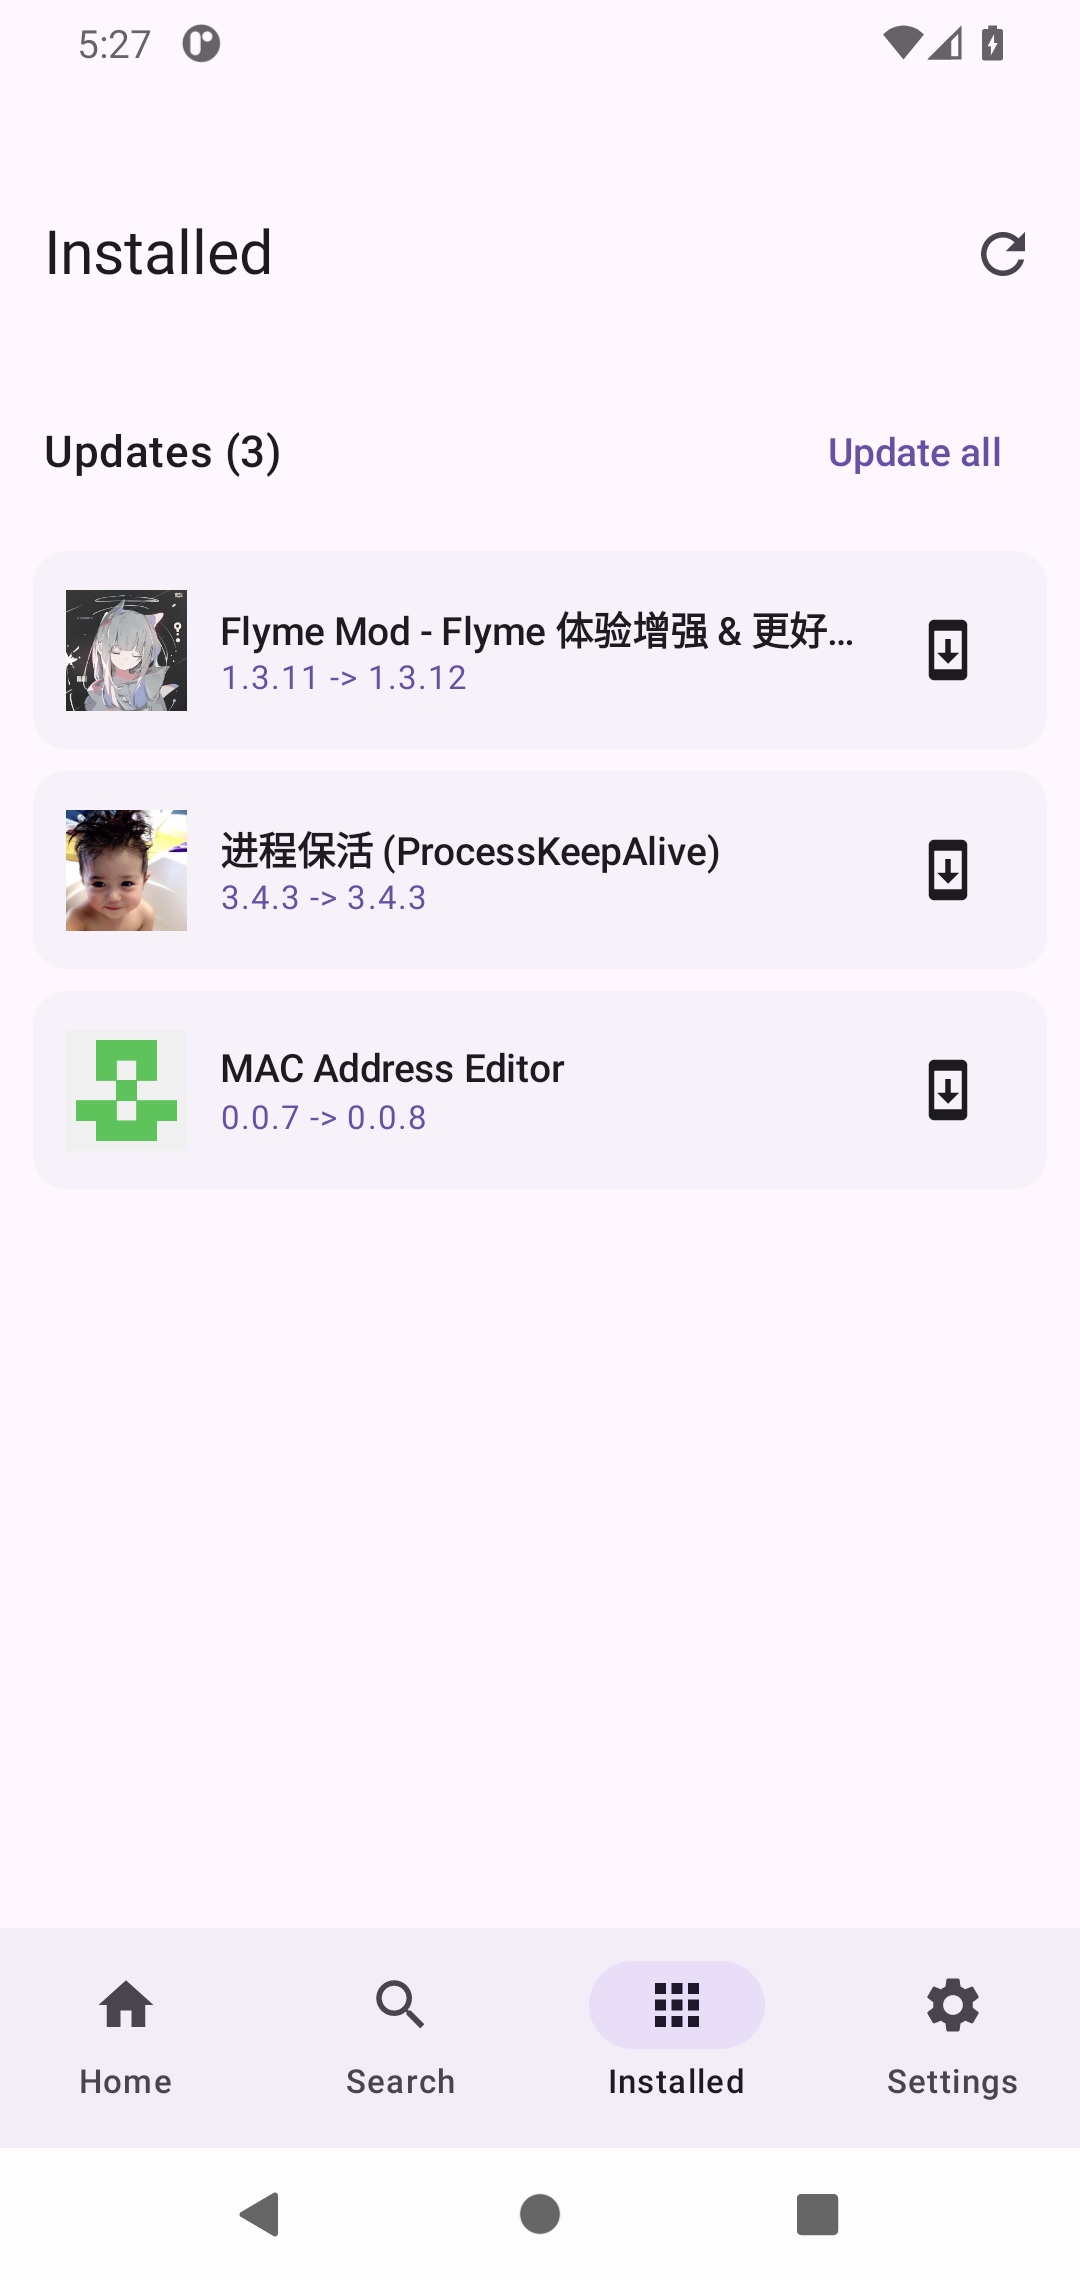
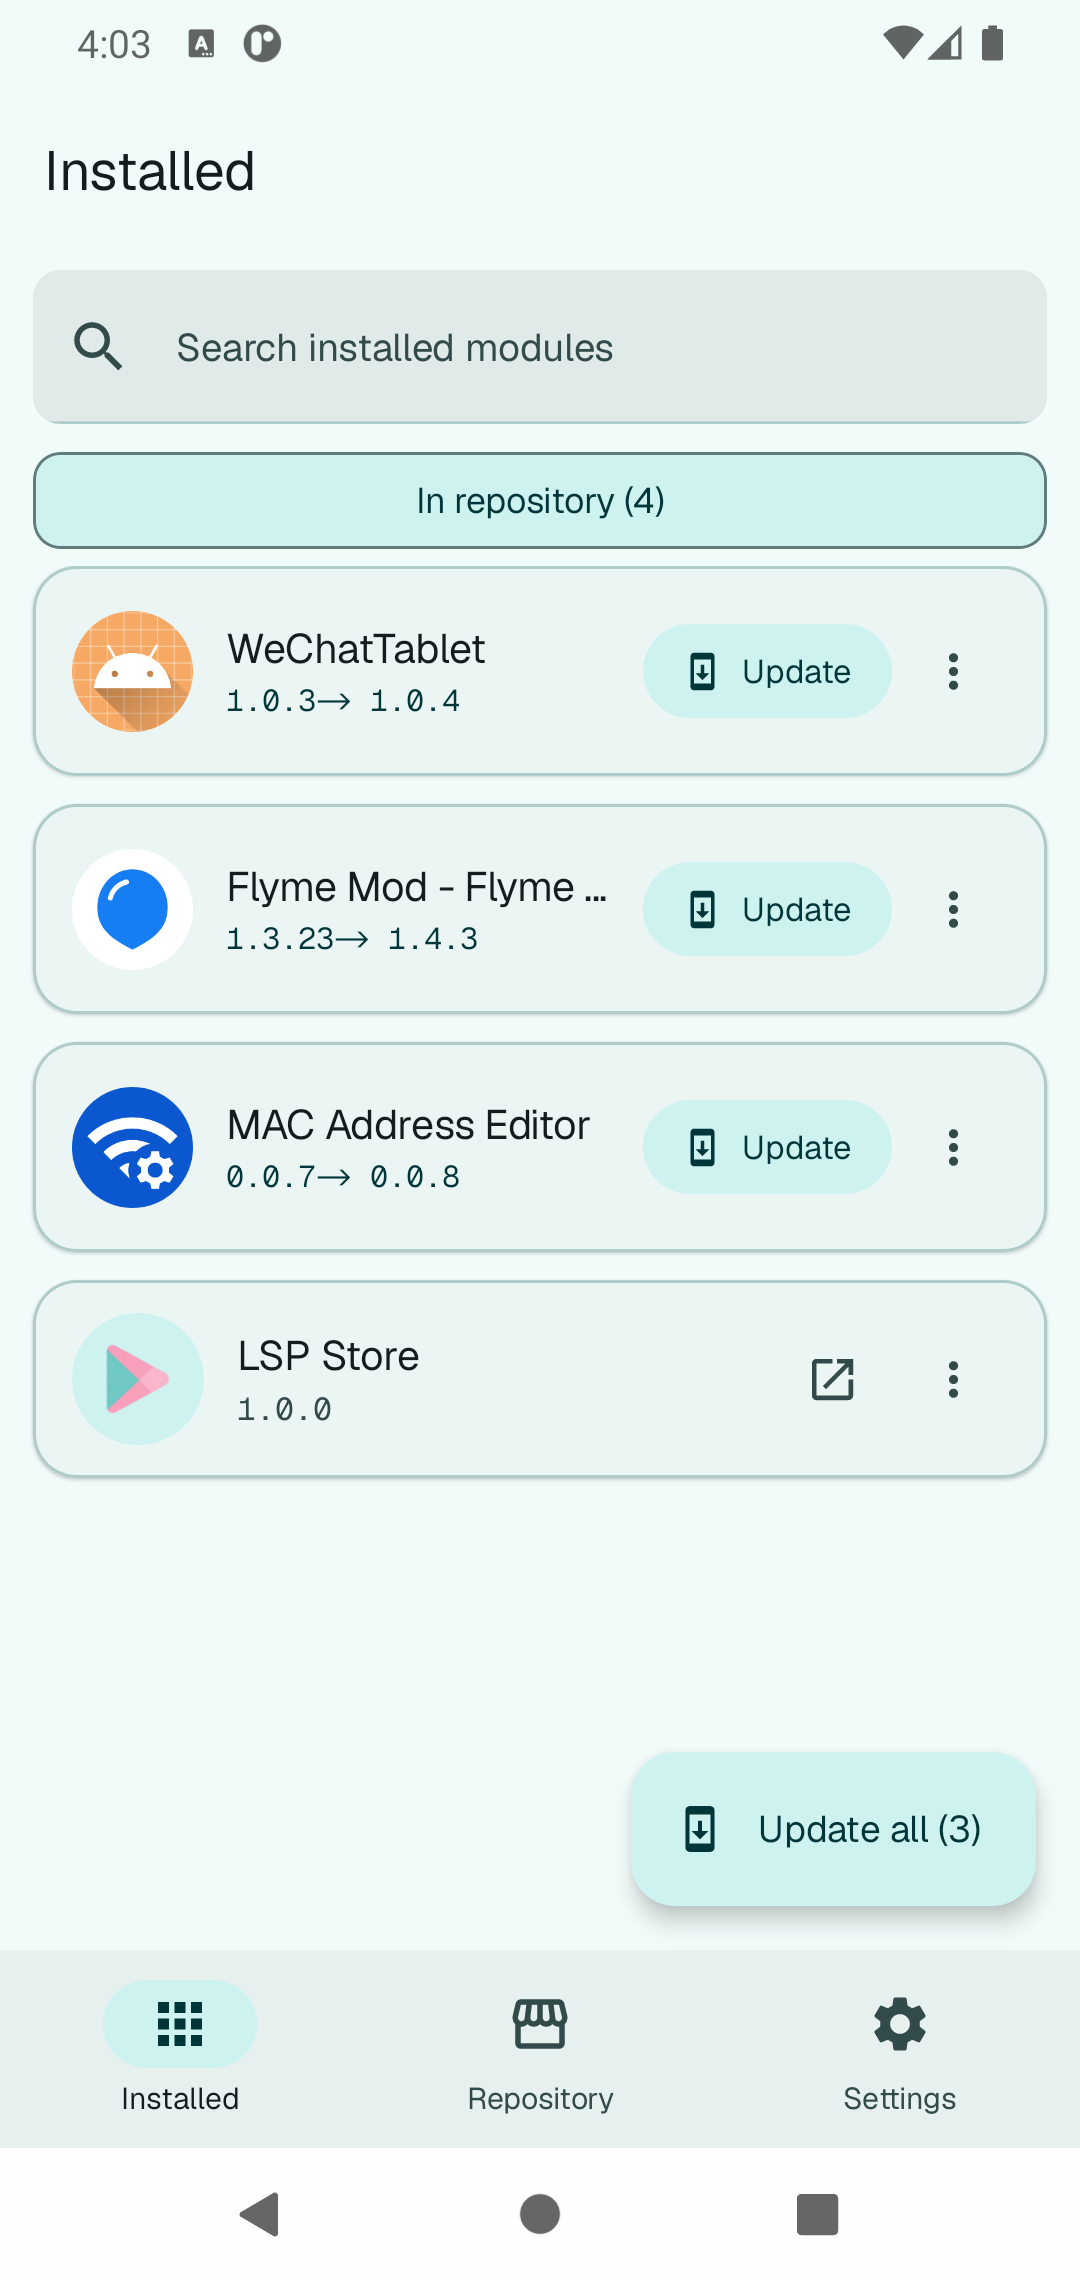
Use fresh emulator screenshots for the README tour

diff --git a/README.en.md b/README.en.md
@@ -26,9 +26,9 @@ An updater and browser for LSPosed modules
 ### Screenshots
 
 <p align="center">
-  <img src="assets/screenshots/home.png" width="220" alt="Home" />
+  <img src="assets/screenshots/repository.png" width="220" alt="Repository" />
   <img src="assets/screenshots/module.png" width="220" alt="Module page" />
-  <img src="assets/screenshots/installed.png" width="220" alt="Installed, with updatable modules" />
+  <img src="assets/screenshots/installed.png" width="220" alt="Installed" />
 </p>
 
 ---

diff --git a/README.md b/README.md
@@ -26,7 +26,7 @@ LSPosed 模块的更新与浏览工具
 ### 页面浏览
 
 <p align="center">
-  <img src="assets/screenshots/home.png" width="220" alt="首页" />
+  <img src="assets/screenshots/repository.png" width="220" alt="仓库" />
   <img src="assets/screenshots/module.png" width="220" alt="模块页" />
   <img src="assets/screenshots/installed.png" width="220" alt="已安装" />
 </p>
